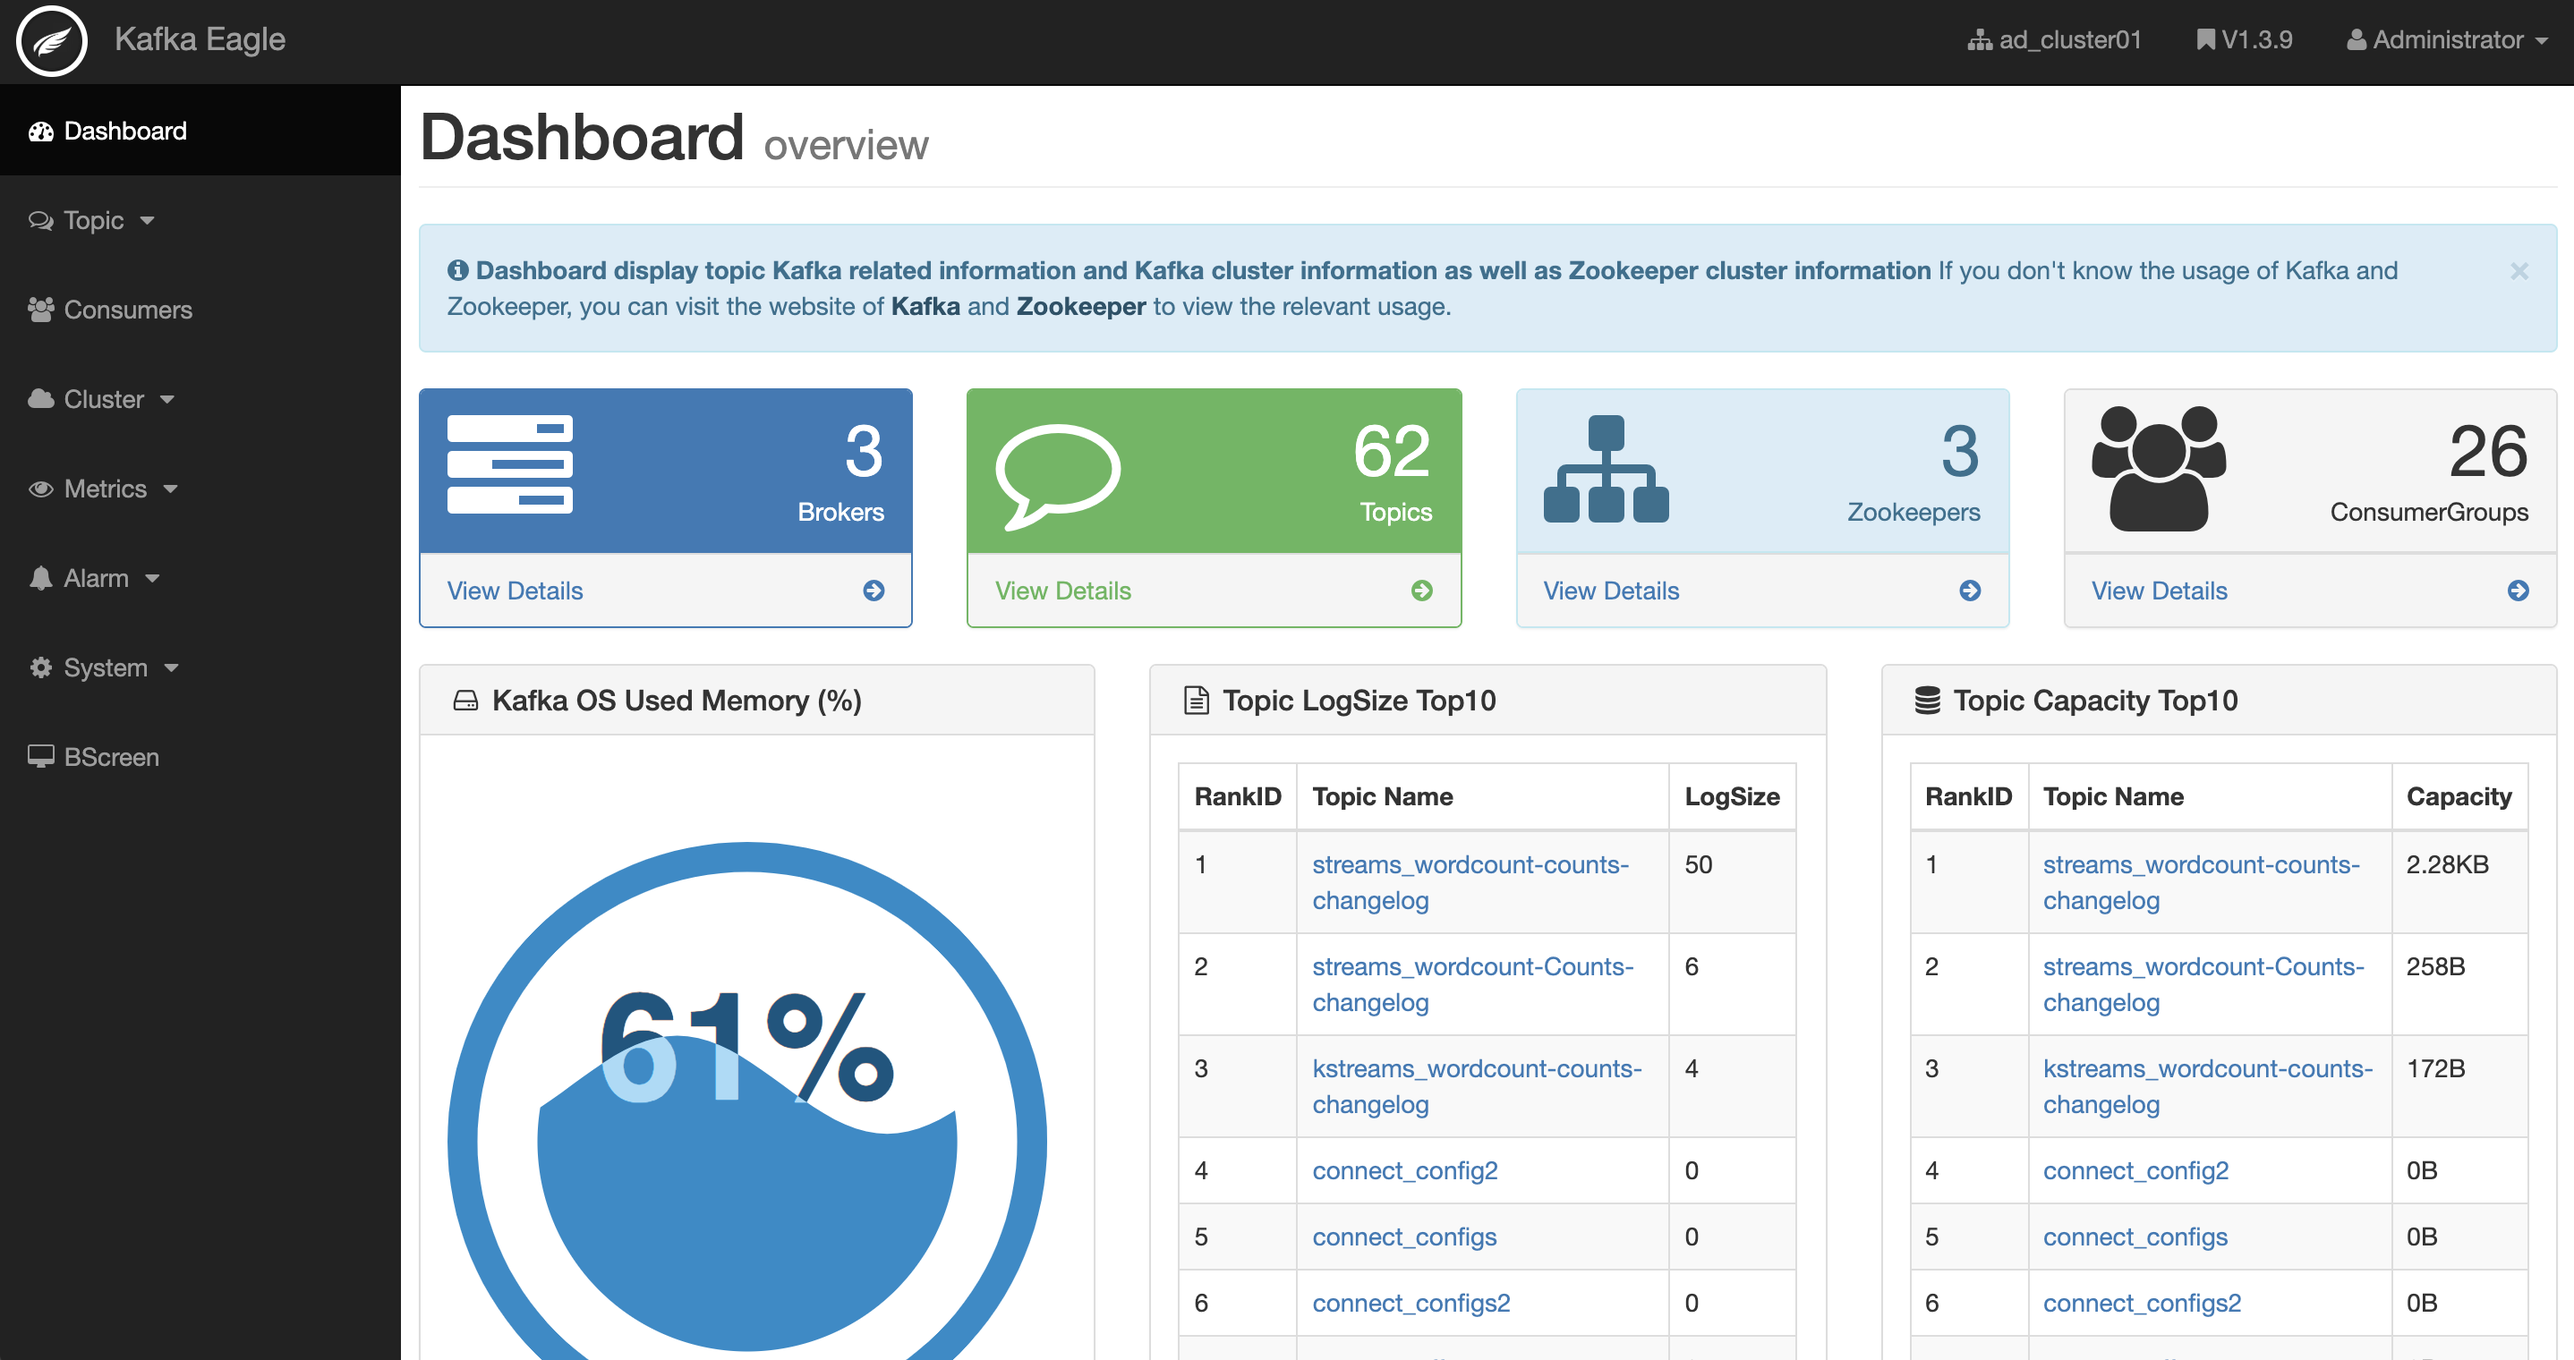
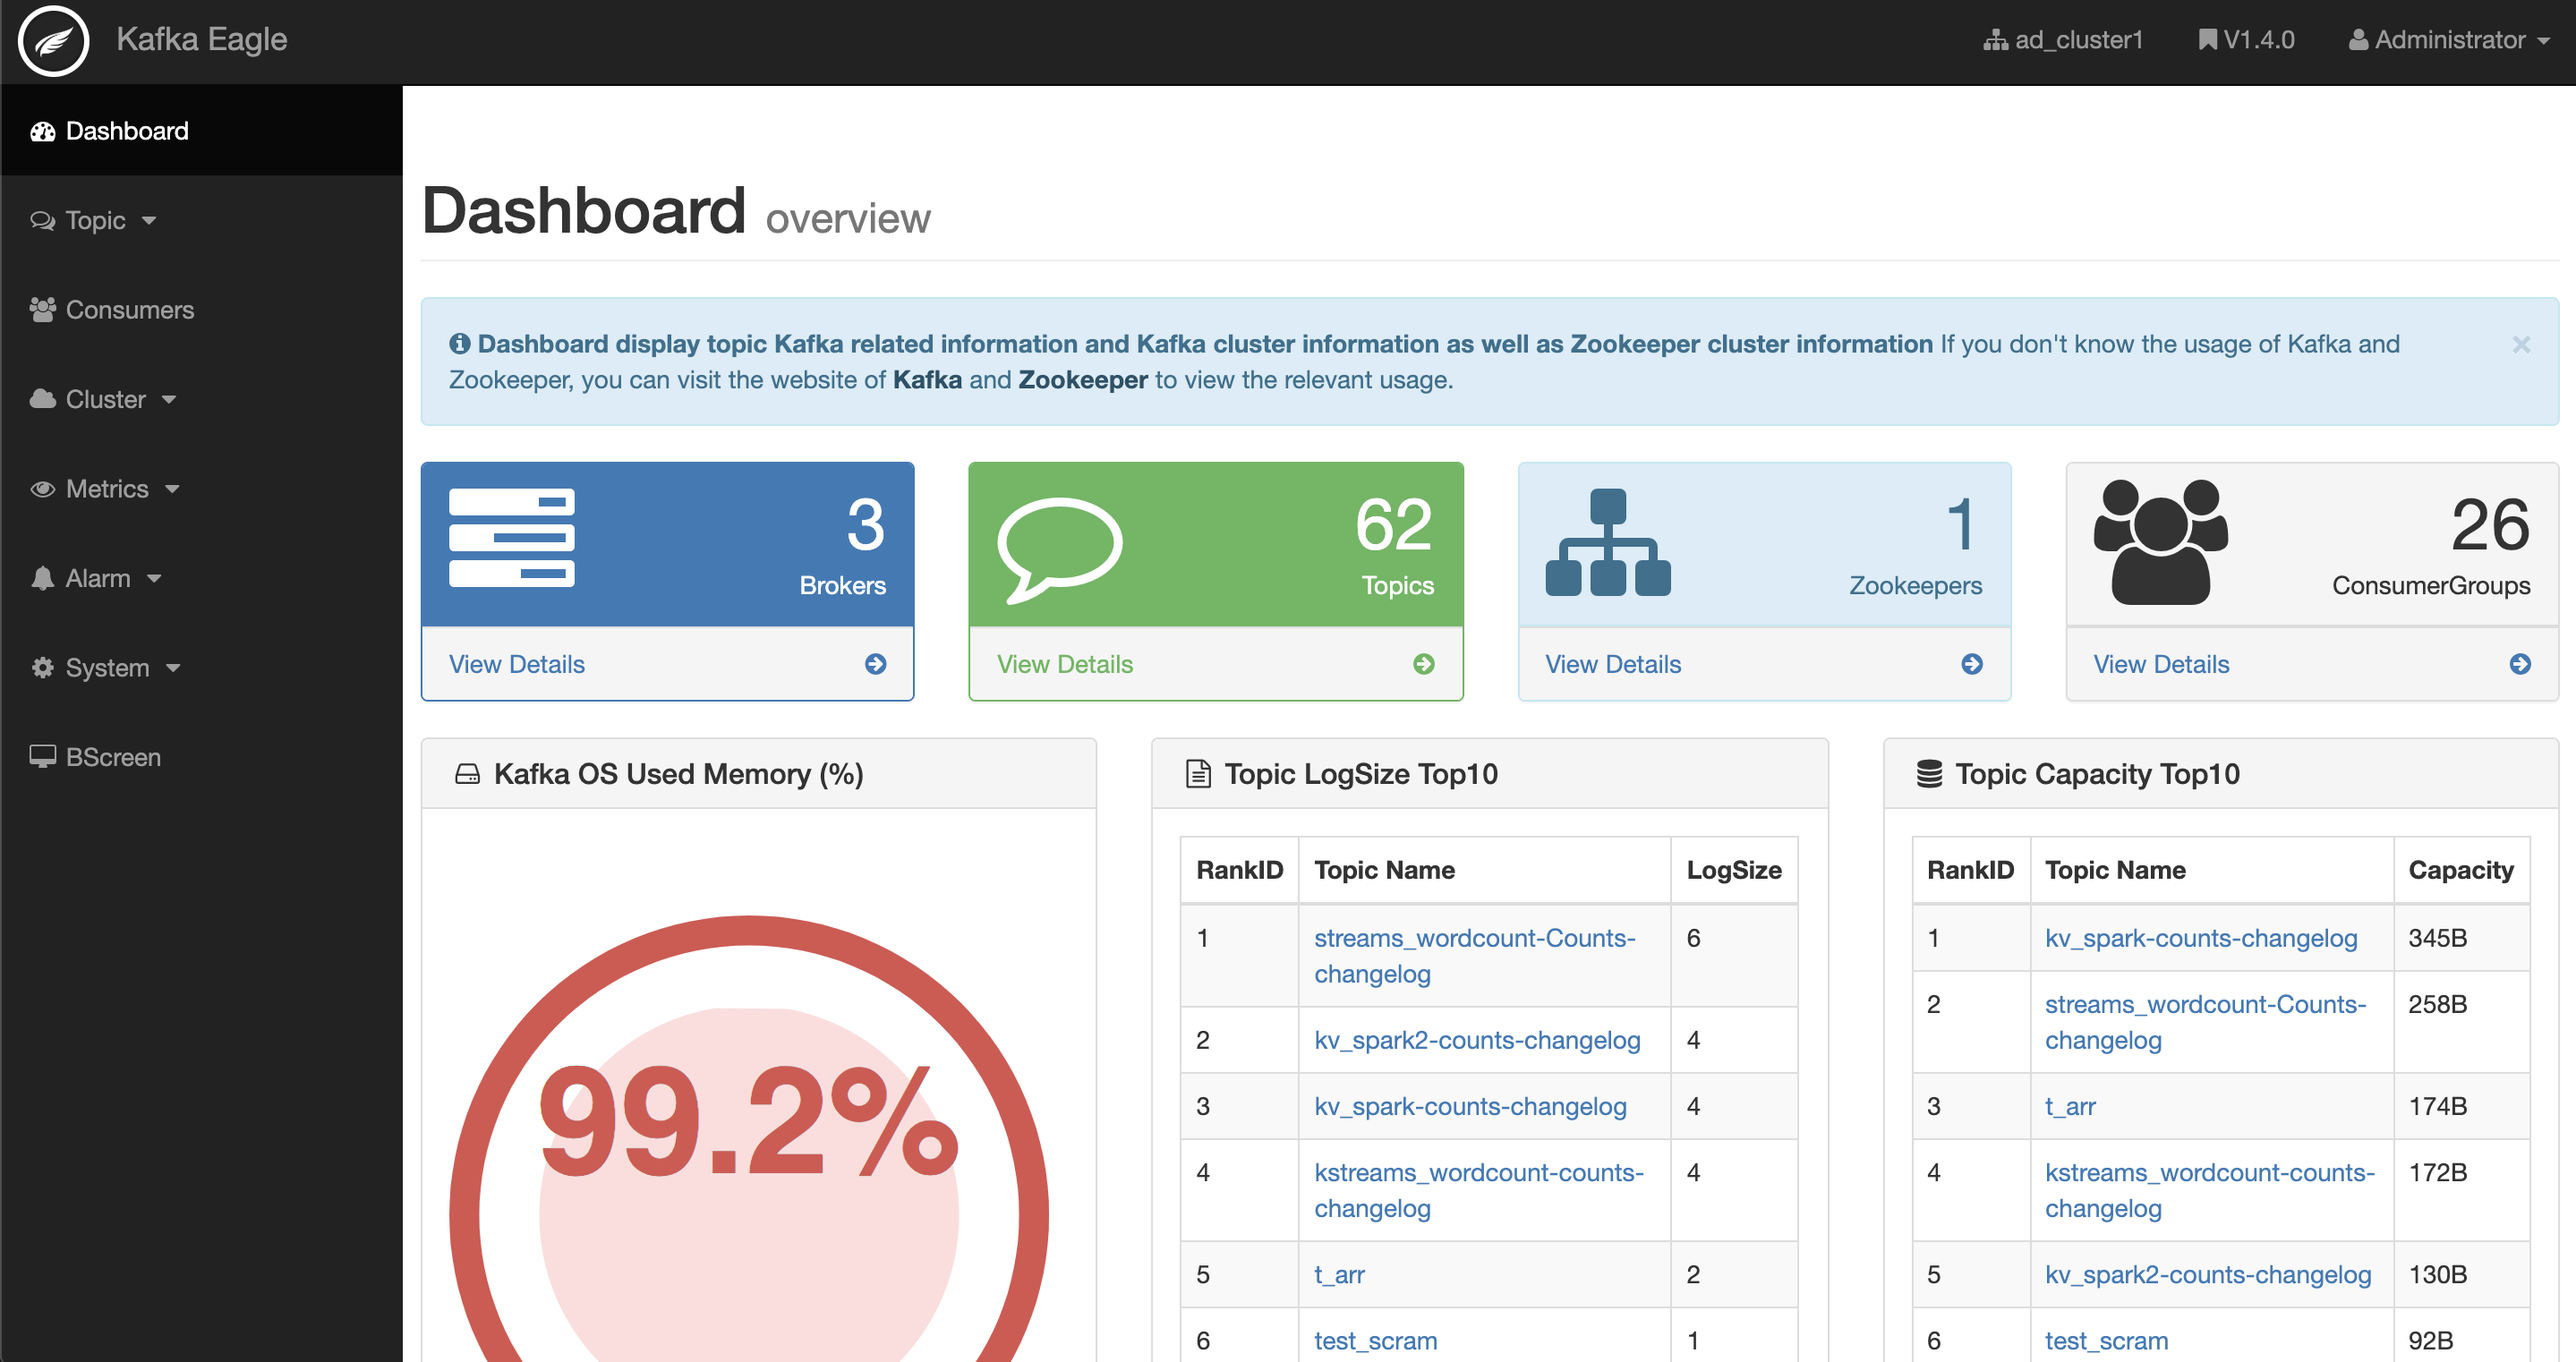
release v1.4.0

diff --git a/index.html b/index.html
@@ -37,7 +37,7 @@
           <div class="wrap">
             <div class="text"><strong>Kafka-<span class="white-text">Eagle</span></strong></div>
             <div class="minitext">A Easy and High-Performance Monitoring System</div>
-            <div class="buttons-unit"><a href="https://docs.kafka-eagle.org/2.Install/2.Installing.html" target="_blank" class="button">Installation guidelines</a><a href="http://download.kafka-eagle.org/" target="_blank" class="button">Download (v1.3.9)</a></div>
+            <div class="buttons-unit"><a href="https://docs.kafka-eagle.org/2.Install/2.Installing.html" target="_blank" class="button">Installation guidelines</a><a href="http://download.kafka-eagle.org/" target="_blank" class="button">Download (v1.4.0)</a></div>
             <div class="admin-screenshots">
               <div class="admin-screenshot">
                 <div class="browser-mockup"><a href="#" target="_blank" class="demo-link"><img src="images/Dashboard@2x.png"><span class="demo-link-label">Kafka Eagle</span></a></div>
